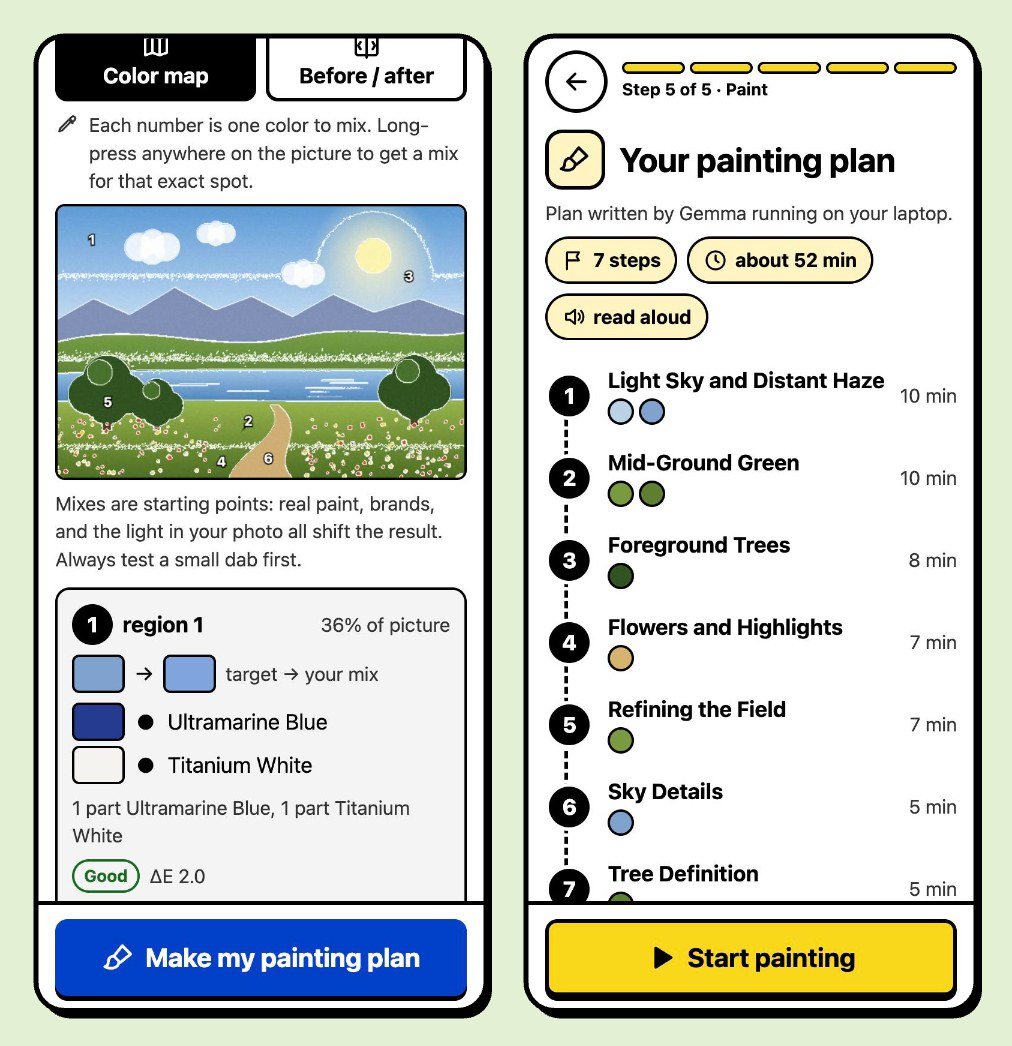
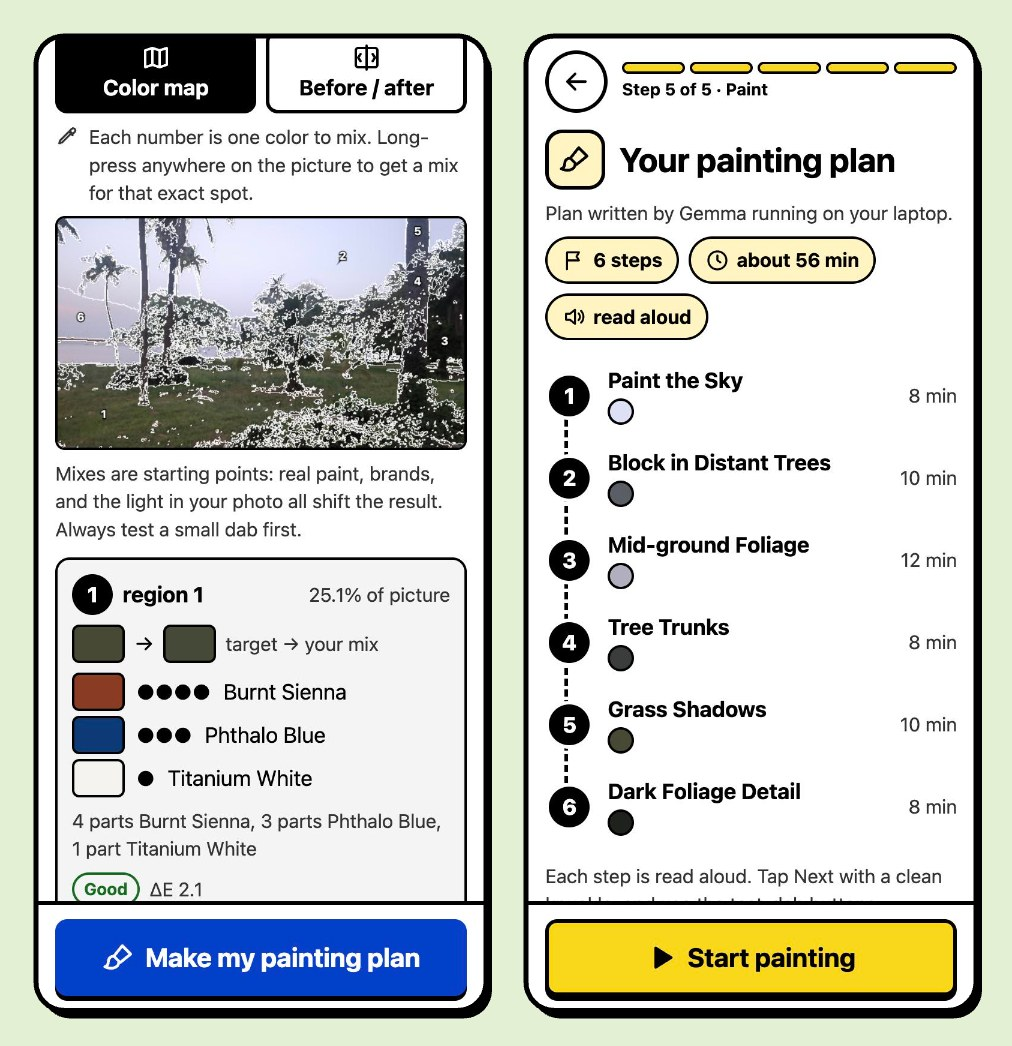
Eval on real fixture photos: 100% of regions under ΔE 10 (student set), 18/18 valid Gemma plans
The user's own park, street and waterfront photos (no EXIF; two rotated
upright). README, eval/results.md and screenshots updated to match.

diff --git a/eval/results.md b/eval/results.md
@@ -1,20 +1,30 @@
 # Eval results
 
 These are the only performance numbers the README and the post quote. Both halves were
-run on 2026-10-11 on an Apple Silicon MacBook (24 GB RAM).
+run on 2026-10-11 on an Apple Silicon MacBook (24 GB RAM), on the three photos in
+`fixtures/scenes/`: `park.jpg`, `street.jpg` and `beach.jpg` (a lagoon waterfront). They
+were taken on the author's phone in soft, low light, so they're mostly greys, dull greens
+and near-black foliage shadows.
 
-**Test images: stand-ins.** The three scenes are macOS's built-in "Big Sur Mountains"
-(park), "Big Sur Coastline" (beach) and "Big Sur Road" (street) wallpapers, exported at
-768 px. They're Apple's images, so they are not committed. Re-run with your own photos in
-`fixtures/scenes/`:
+Re-run:
 
 ```bash
-node scripts/eval.ts --out eval/color.md                         # color half
-server/.venv/bin/python scripts/eval.py eval/requests --out eval/model.md   # model half
+node scripts/eval.ts --out eval/color.md
+node scripts/make_plan_request.ts --out eval/requests fixtures/scenes/*.jpg                      # acrylic
+node scripts/make_plan_request.ts --out eval/requests --medium watercolor fixtures/scenes/*.jpg
+server/.venv/bin/python scripts/eval.py eval/requests --runs 3 --out eval/model.md
 ```
 
-(`scripts/make_plan_request.ts` turns a photo into a saved `/api/plan` request for the
-model half.)
+**Where the 4-paint set misses:** the darkest region of every photo (the deepest foliage
+shadow, L* 11–17). Without a black or an earth color, yellow + crimson + ultramarine + white
+can't get that dark (ΔE 11.6–14.6). The student set reaches ΔE 8.2–8.3 there (OK), and
+primaries + white + black get everything under ΔE 10.
+
+**Latency note:** the slowest plan (13.1 s) was the first request, which includes loading
+the model. Warm requests took 4.7–9.6 s.
+
+An earlier run on three stand-in landscapes (macOS wallpapers, not committed) gave 94% /
+100% / 82% under ΔE 10 and 18/18 valid plans (p50 6.6 s); see `DEVLOG.md`.
 
 ## Color engine
 
@@ -22,21 +32,21 @@ Regions: k = 6, 512 px long edge, merge < ΔE00 6, specks < 1% absorbed. Recipes
 
 | Photo | Palette | Regions | Under ΔE 10 | Median ΔE | Worst ΔE | Solve ms |
 | --- | --- | ---: | ---: | ---: | ---: | ---: |
-| park_standin_big_sur_mountains.jpg | student | 6 | 6/6 (100%) | 2.31 | 9.80 | 16 |
-| park_standin_big_sur_mountains.jpg | primaries_wb | 6 | 6/6 (100%) | 3.09 | 6.10 | 4 |
-| park_standin_big_sur_mountains.jpg | minimal4 | 6 | 5/6 (83%) | 4.90 | 16.40 | 1 |
-| beach_standin_big_sur_coastline.jpg | student | 5 | 5/5 (100%) | 1.94 | 2.97 | 9 |
-| beach_standin_big_sur_coastline.jpg | primaries_wb | 5 | 5/5 (100%) | 2.67 | 3.44 | 3 |
-| beach_standin_big_sur_coastline.jpg | minimal4 | 5 | 5/5 (100%) | 3.30 | 3.92 | 1 |
-| street_standin_big_sur_road.jpg | student | 6 | 5/6 (83%) | 3.01 | 12.66 | 9 |
-| street_standin_big_sur_road.jpg | primaries_wb | 6 | 6/6 (100%) | 2.59 | 4.15 | 3 |
-| street_standin_big_sur_road.jpg | minimal4 | 6 | 4/6 (67%) | 7.03 | 17.45 | 1 |
+| beach.jpg | student | 5 | 5/5 (100%) | 2.68 | 4.85 | 15 |
+| beach.jpg | primaries_wb | 5 | 5/5 (100%) | 3.31 | 9.10 | 4 |
+| beach.jpg | minimal4 | 5 | 4/5 (80%) | 4.03 | 11.61 | 1 |
+| park.jpg | student | 6 | 6/6 (100%) | 3.00 | 8.16 | 9 |
+| park.jpg | primaries_wb | 6 | 6/6 (100%) | 3.58 | 8.12 | 3 |
+| park.jpg | minimal4 | 6 | 5/6 (83%) | 5.39 | 13.53 | 1 |
+| street.jpg | student | 6 | 6/6 (100%) | 2.16 | 8.29 | 9 |
+| street.jpg | primaries_wb | 6 | 6/6 (100%) | 2.53 | 4.49 | 3 |
+| street.jpg | minimal4 | 6 | 5/6 (83%) | 5.92 | 14.61 | 1 |
 
 | Palette | Regions | Under ΔE 10 | Median ΔE |
 | --- | ---: | ---: | ---: |
-| student | 17 | 94% | 2.55 |
-| primaries_wb | 17 | 100% | 2.67 |
-| minimal4 | 17 | 82% | 4.40 |
+| student | 17 | 100% | 2.68 |
+| primaries_wb | 17 | 100% | 3.21 |
+| minimal4 | 17 | 82% | 5.15 |
 
 ## Gemma planner
 
@@ -44,29 +54,29 @@ Provider `ollama`, model `gemma4:e4b`, thinking off, 3 runs per request.
 
 | Request | Run | Source | Attempts | Latency (s) | Steps | Problems on failure |
 | --- | ---: | --- | ---: | ---: | ---: | --- |
-| beach_standin_big_sur_coastline.acrylic | 1 | gemma | 1 | 9.5 | 6 |  |
-| beach_standin_big_sur_coastline.acrylic | 2 | gemma | 1 | 6.8 | 7 |  |
-| beach_standin_big_sur_coastline.acrylic | 3 | gemma | 1 | 7.8 | 6 |  |
-| beach_standin_big_sur_coastline.watercolor | 1 | gemma | 1 | 8.5 | 7 |  |
-| beach_standin_big_sur_coastline.watercolor | 2 | gemma | 1 | 5.4 | 6 |  |
-| beach_standin_big_sur_coastline.watercolor | 3 | gemma | 1 | 5.8 | 6 |  |
-| park_standin_big_sur_mountains.acrylic | 1 | gemma | 1 | 8.4 | 6 |  |
-| park_standin_big_sur_mountains.acrylic | 2 | gemma | 1 | 6.6 | 7 |  |
-| park_standin_big_sur_mountains.acrylic | 3 | gemma | 1 | 6.4 | 6 |  |
-| park_standin_big_sur_mountains.watercolor | 1 | gemma | 1 | 7.1 | 6 |  |
-| park_standin_big_sur_mountains.watercolor | 2 | gemma | 1 | 5.9 | 6 |  |
-| park_standin_big_sur_mountains.watercolor | 3 | gemma | 1 | 5.8 | 6 |  |
-| street_standin_big_sur_road.acrylic | 1 | gemma | 1 | 7.6 | 6 |  |
-| street_standin_big_sur_road.acrylic | 2 | gemma | 1 | 6.4 | 6 |  |
-| street_standin_big_sur_road.acrylic | 3 | gemma | 1 | 6.6 | 6 |  |
-| street_standin_big_sur_road.watercolor | 1 | gemma | 1 | 7.8 | 7 |  |
-| street_standin_big_sur_road.watercolor | 2 | gemma | 1 | 5.7 | 6 |  |
-| street_standin_big_sur_road.watercolor | 3 | gemma | 1 | 6.4 | 7 |  |
+| beach.acrylic | 1 | gemma | 1 | 13.1 | 6 |  |
+| beach.acrylic | 2 | gemma | 1 | 5.9 | 6 |  |
+| beach.acrylic | 3 | gemma | 1 | 4.7 | 5 |  |
+| beach.watercolor | 1 | gemma | 1 | 8.2 | 6 |  |
+| beach.watercolor | 2 | gemma | 1 | 5.9 | 5 |  |
+| beach.watercolor | 3 | gemma | 1 | 5.7 | 5 |  |
+| park.acrylic | 1 | gemma | 1 | 9.6 | 7 |  |
+| park.acrylic | 2 | gemma | 1 | 6.5 | 6 |  |
+| park.acrylic | 3 | gemma | 1 | 8.2 | 8 |  |
+| park.watercolor | 1 | gemma | 1 | 8.1 | 7 |  |
+| park.watercolor | 2 | gemma | 1 | 7.0 | 7 |  |
+| park.watercolor | 3 | gemma | 1 | 7.5 | 8 |  |
+| street.acrylic | 1 | gemma | 1 | 7.0 | 6 |  |
+| street.acrylic | 2 | gemma | 1 | 7.2 | 8 |  |
+| street.acrylic | 3 | gemma | 1 | 5.7 | 6 |  |
+| street.watercolor | 1 | gemma | 1 | 8.6 | 7 |  |
+| street.watercolor | 2 | gemma | 1 | 6.5 | 7 |  |
+| street.watercolor | 3 | gemma | 1 | 6.3 | 7 |  |
 
 | Metric | Value |
 | --- | --- |
 | Valid Gemma plans (after at most one retry) | 18/18 (100%) |
 | Valid on the first try | 18/18 (100%) |
 | Fallback used | 0/18 |
-| Latency p50 | 6.6 s |
-| Latency p95 | 9.5 s |
+| Latency p50 | 7.0 s |
+| Latency p95 | 13.1 s |

diff --git a/DEVLOG.md b/DEVLOG.md
@@ -359,3 +359,11 @@ Tests: web 87/87, server 92/92.
 - **Screenshots (`docs/images/`):** captured at phone size and combined into side-by-side pairs, plus a 1000 × 420 cover. They use a test landscape drawn in code (`docs/images/demo-landscape.jpg`), because neither the Apple wallpapers nor the outline-canvas product photos can be published. The plan in them is Gemma's real output for that image (7 steps, 13.9 s).
 - **Post opening (user's own reason):** the user has sip-and-paint evenings with friends and family, and choosing colors for the pre-drawn canvas is always the bottleneck. The post now opens with that, and Color it in / Suggest colors moved into the main flow.
 - **Color it in screenshots:** a sunflower-in-a-pot outline drawn in code (`docs/images/demo-canvas.jpg`). Gemma's live suggestion got the sun, table and cloud right, but read shape 5 (the flower's center) as "flower petals" and shape 6 (the pot rim) as "stem and leaves". The post shows that raw result next to the canvas after 18 corrective taps, and says so.
+
+### 2026-10-11 — Real fixture photos and final eval
+
+- **Photos:** the user's own phone photos are now in `fixtures/scenes/` (park, street, a lagoon waterfront as "beach"). They carry no EXIF, GPS or camera data. Park and beach were stored sideways with no orientation tag, so they were rotated upright with `sips -r 270`; the originals were backed up outside the repo.
+- **Color eval** (`scripts/eval.ts`, 17 regions per palette): student set **100%** under ΔE 10 (median 2.68); primaries + white + black **100%** (3.21); 4-paint set **82%** (5.15). The 4-paint misses are the darkest region of each photo (L* 11–17 foliage shadow), which needs a black or an earth color. This meets the Phase 1 "done when" (at least 80% under ΔE 10 on three fixture photos) on real fixtures.
+- **Model eval** (`scripts/eval.py`, 3 photos × acrylic/watercolor × 3 runs): **18/18 valid on the first try**, 0 fallbacks, p50 7.0 s, p95 13.1 s. The 13.1 s was the first request (model load); warm runs took 4.7–9.6 s. This meets the Phase 2 "done when" (valid plans on all three fixture scenes).
+- **Screenshots** in the post now use the park photo: grass → 4 Burnt Sienna + 3 Phthalo Blue + 1 White (ΔE 2.1); Gemma's plan runs sky → distant trees → mid-ground foliage → trunks → grass shadows → dark foliage detail; the dusk sky → 5 White + 1 Alizarin + 1 Phthalo, and Too dark adds one White.
+- `eval/results.md`, the README and the post quote these numbers. The stand-in run stays in this log only.

diff --git a/README.md b/README.md
@@ -82,11 +82,14 @@ fresh visit needs the laptop.
 
 ## Measured
 
-From `scripts/eval.ts` and `scripts/eval.py` (details in [eval/results.md](eval/results.md)).
-The test scenes were **stand-ins** (macOS landscape wallpapers), not field photos.
+From `scripts/eval.ts` and `scripts/eval.py` (details in [eval/results.md](eval/results.md)),
+on three phone photos in [`fixtures/scenes/`](fixtures/scenes): a park, a street and a lagoon waterfront.
 
-- Recipes under ΔE 10: **94%** of regions with a 6-color student set + white (median ΔE 2.55), **100%** with 3 primaries + white + black (median 2.67), **82%** with a 4-paint set (median 4.40).
-- Gemma plans: **18/18 valid** on the first try, median **6.6 s**, p95 9.5 s (local `gemma4:e4b`, thinking off).
+- Recipes under ΔE 10:
+  - **100%** of regions with a 6-color student set + white (median ΔE 2.68);
+  - **100%** with 3 primaries + white + black (median 3.21);
+  - **82%** with a 4-paint set (median 5.15). Without a black it can't reach the deepest shadows.
+- Gemma plans: **18/18 valid** on the first try, median **7.0 s**, p95 13.1 s. The slowest one includes loading the model (local `gemma4:e4b`, thinking off).
 
 ## Why open
 
